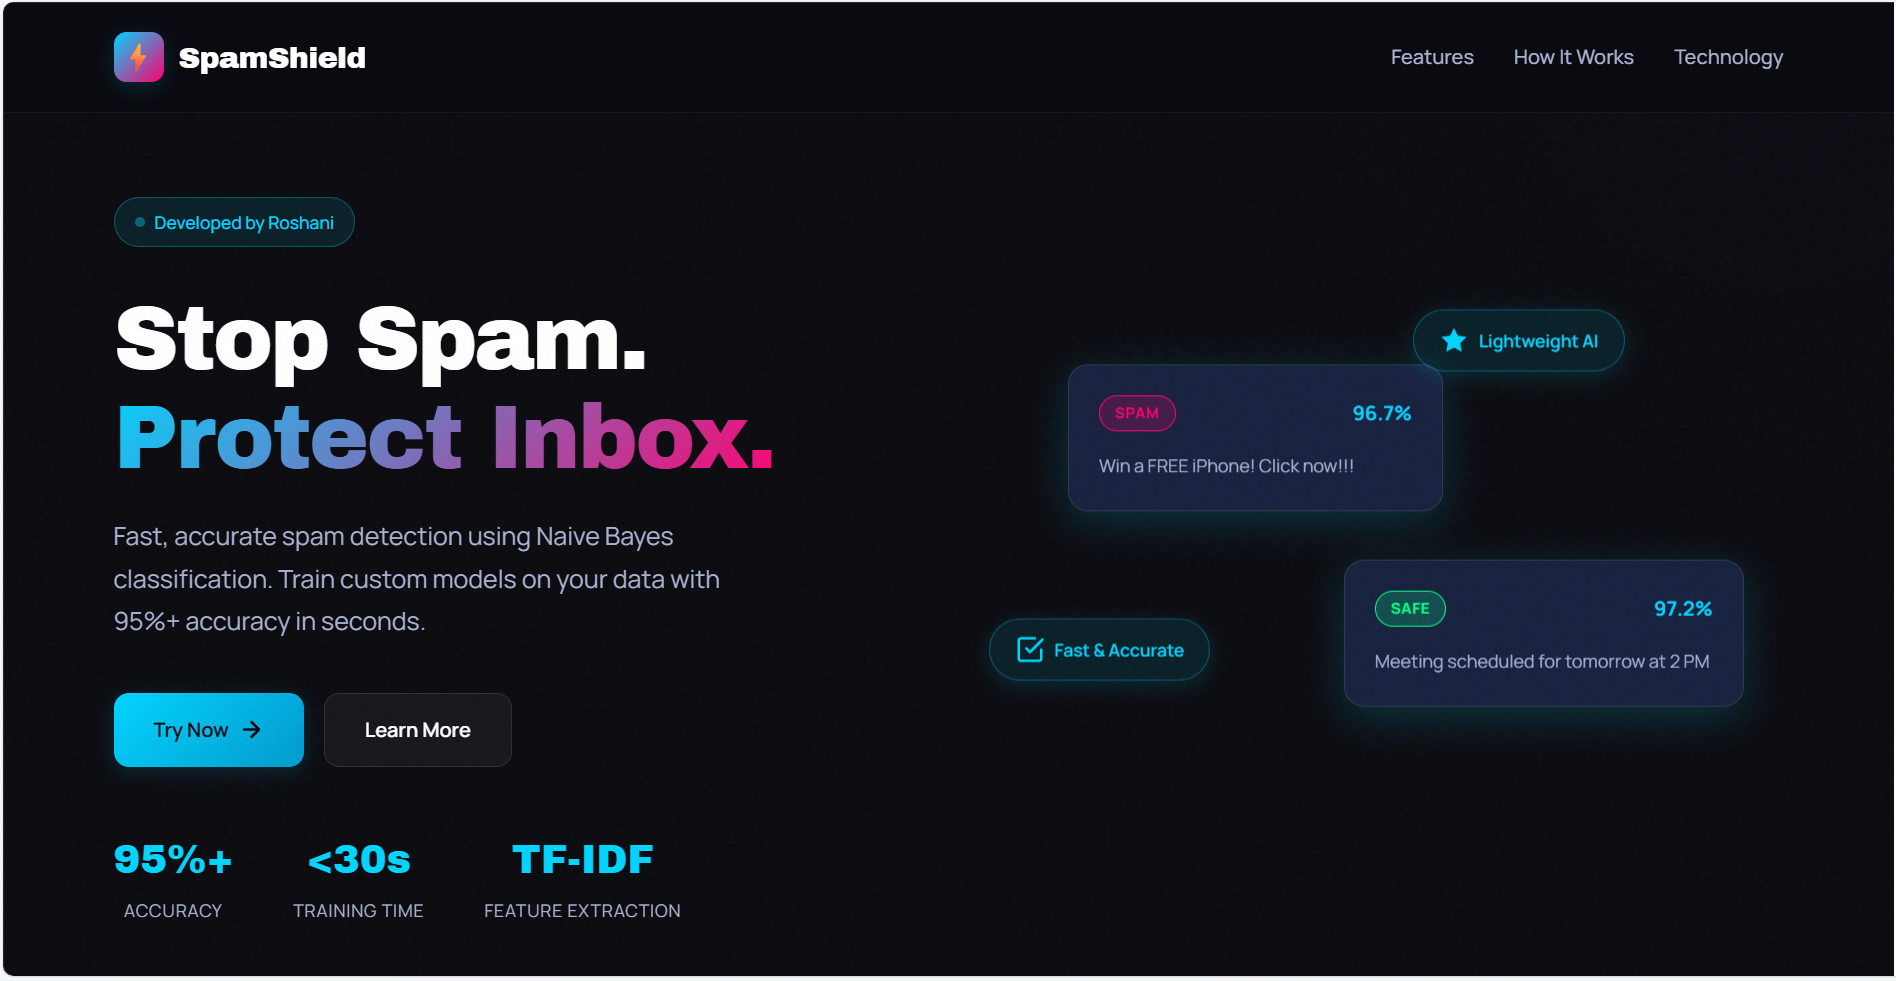
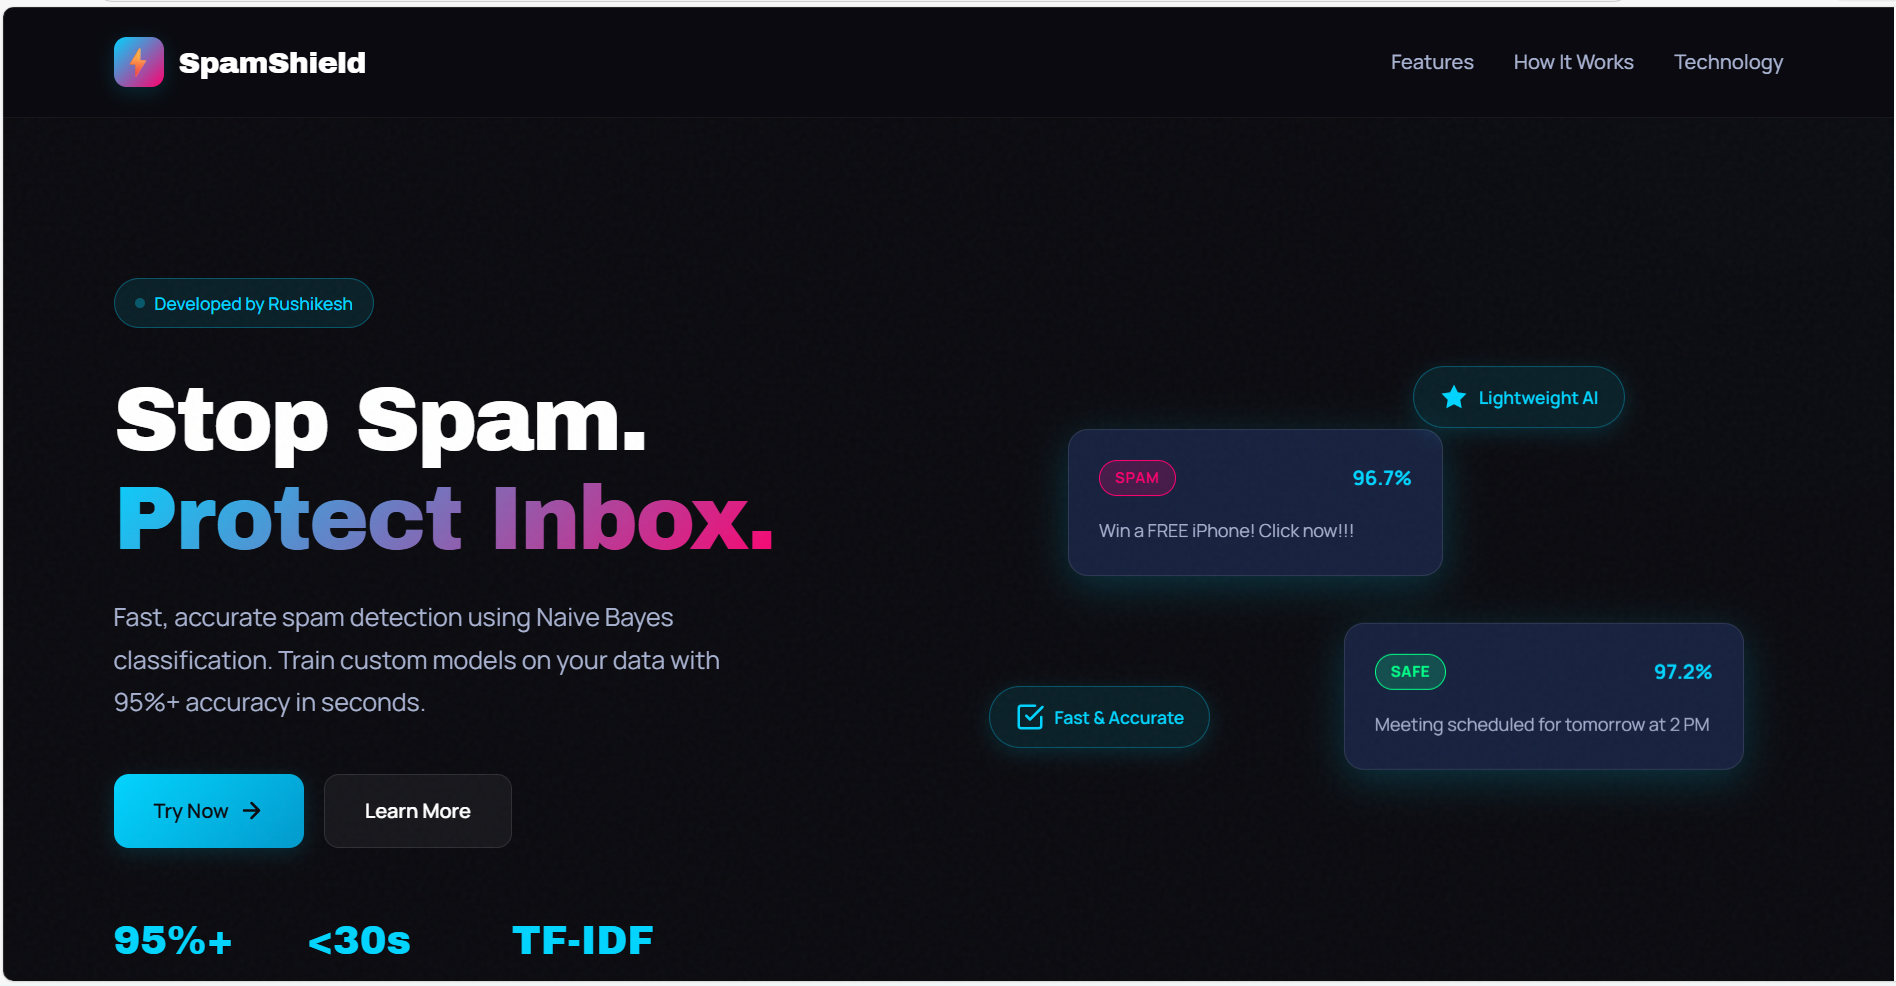
New changes done in index.html

diff --git a/templates/index.html b/templates/index.html
@@ -31,7 +31,7 @@
             <div class="hero-content">
                 <div class="hero-badge">
                     <span class="badge-dot"></span>
-                    Developed by Roshani
+                    Developed by Rushikesh
                 </div>
                 <h1 class="hero-title">
                     Stop Spam.<br>
